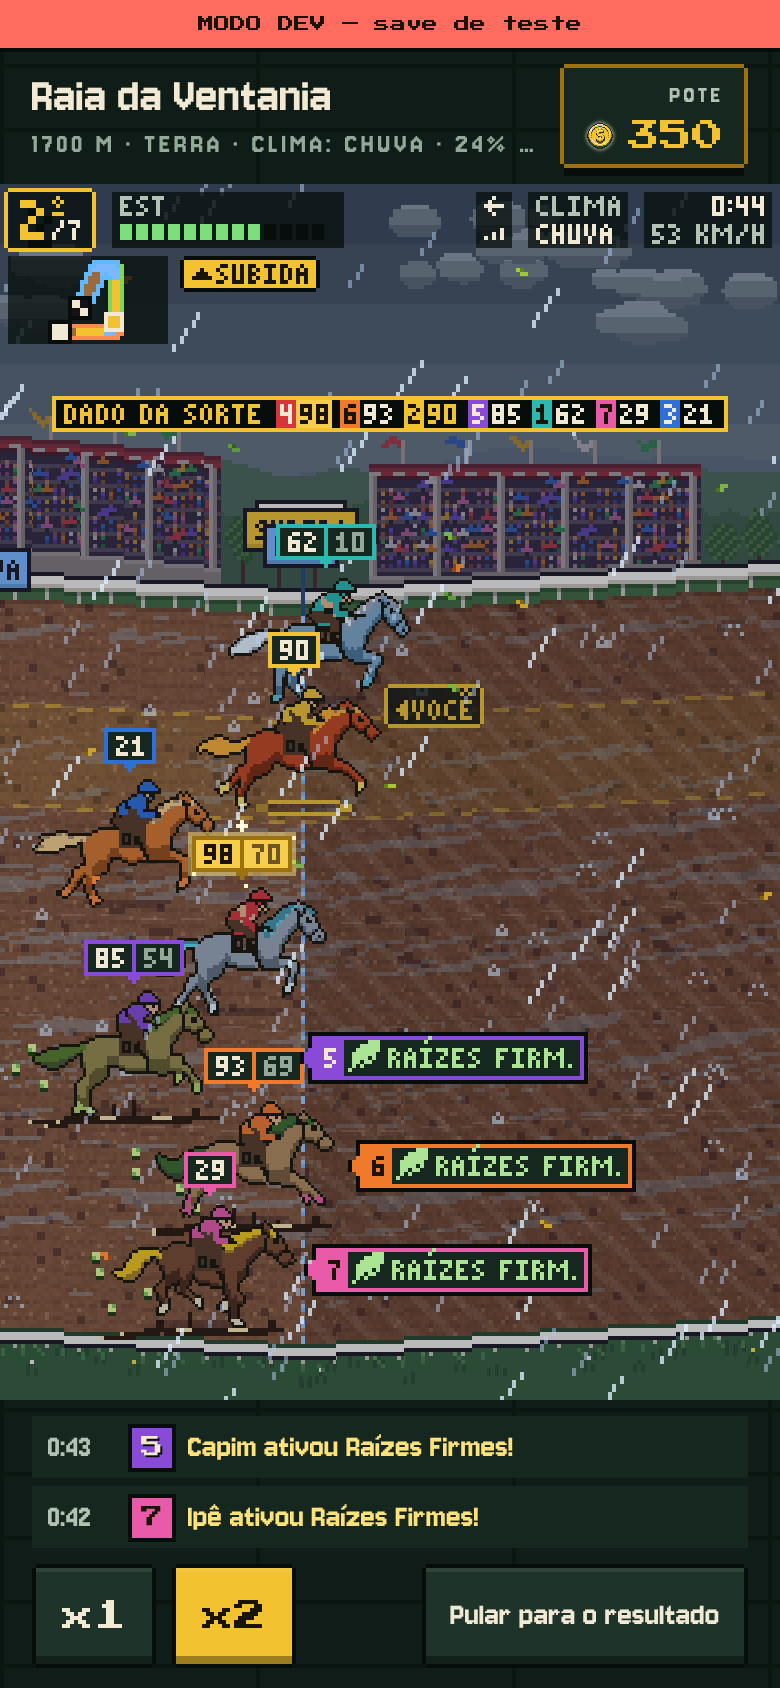
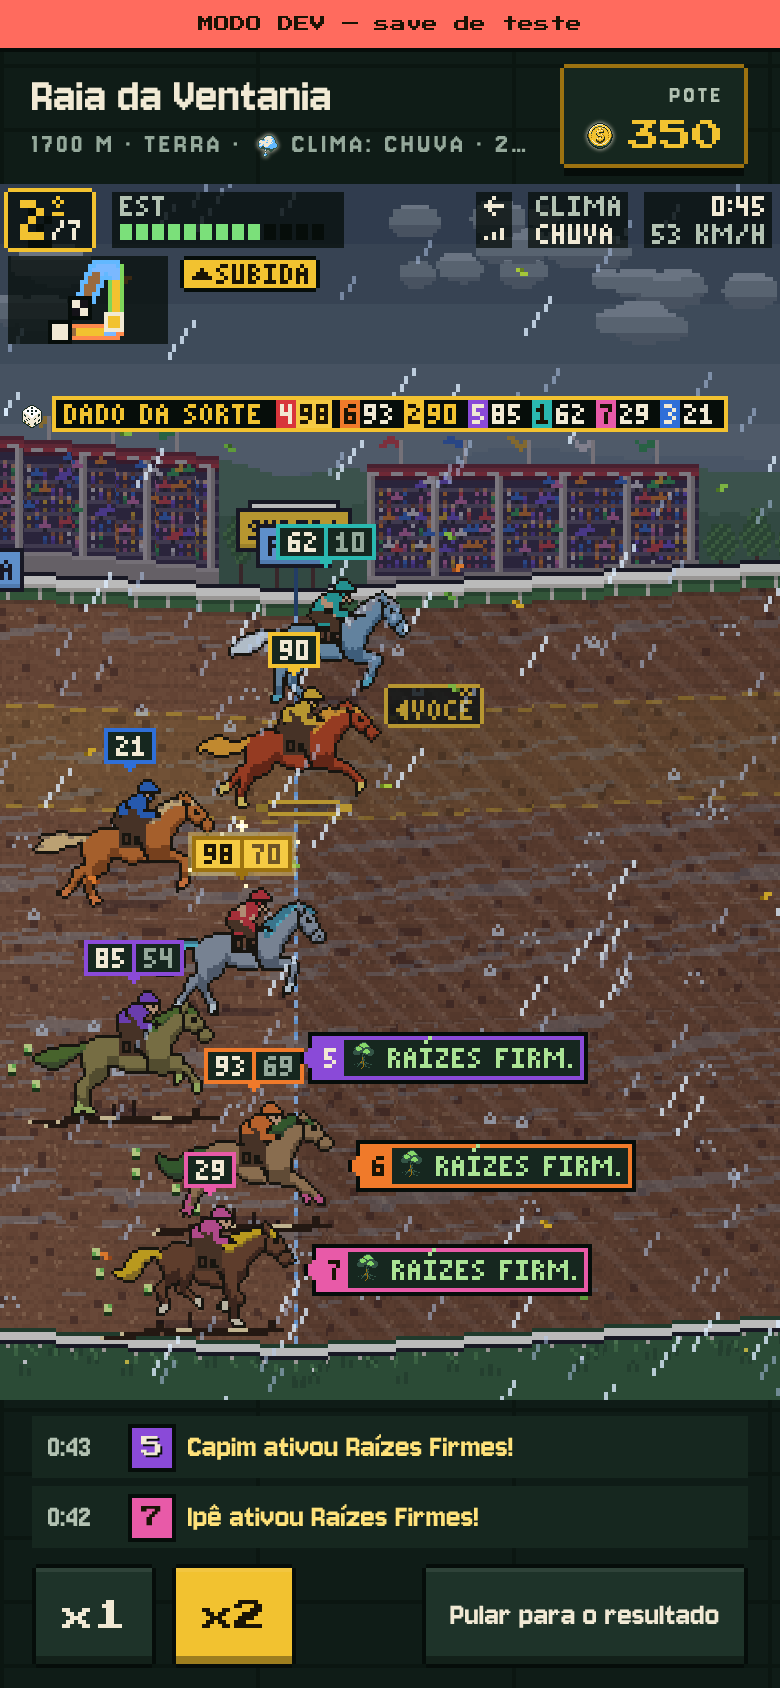
atualiza capturas, registro de assets e memória dos ícones novos
Claude-Session: https://claude.ai/code/session_01MGExzKELAJ58uyj4wakVgJ

diff --git a/docs/memoria/assets.md b/docs/memoria/assets.md
@@ -12,6 +12,7 @@ e `prototype/assets/icons/raw/`. Com elas, `--reprocessar` refaz os arquivos fin
 |---|---|---|---|---|---|
 | Moldes de cavalo (2026-11-08 e 09) | `prototype/assets/pixellab/molde-{chamas,ondas,folhas,lisa}-{retrato,parado,galope-0..8}.png` e `molde-*.json` | PixelLab API v2: `create-image-pixflux` (retrato, parado, pose de corrida) e `animate-with-text-v3` (galope de 9 quadros) | 64×64, vista lateral, cores de papel pedidas por texto e classificadas no script (matiz e Otsu); o galope de ondas, folhas e lisa foi guiado pelo 1º quadro do galope de chamas (`init_image_strength` 300) | chamas 1101, 1111 · ondas 1201, 1511 · folhas 1301, 1601 · lisa 1411, 1421, 1721 | Sim |
 | Ícones (2026-11-08 e 09) | `prototype/assets/icons/*.png` (16: 5 abas, 5 slots, Ouro, Pedra Negra, 3 tipos e `el-geral`, o das skills gerais: era `el-neutro`, renomeado em 2026-11-11 com o cru em `raw/` e o nome de saída no script, sem gerar de novo) | PixelLab `create-image-pixflux` | 32×32, "<objeto> icon, pixel art game ui icon, centered, simple, readable at small size", contorno preto, paleta do jogo em `color_image` | 2101 a 2116; trocados: expedição 2153, estribos 2128 | Sim |
+| Ícones 2 (2026-11-12) | `prototype/assets/icons/*.png` (58 novos: 7 no lugar de emojis, 7 status, 18 skills, 7 clima e piso, 14 ligas/raridades/pódio, 5 reservados; crus em `raw/`; uma linha por ícone mais abaixo) | PixelLab API v2 `create-image-pixflux` | 32×32, receita dos 16 anteriores (descrição em inglês + sufixo de ícone, contorno preto, paleta do jogo e cor do tema em `color_image`); 18 refeitos com a descrição reescrita (cor por extenso); catálogo em `prototype/tools/icones-catalogo.mjs`; folha aprovada pelo Vinicius em 2026-11-12 | 2201 a 2258; refeitos: base + 100 (18), base + 200 (`ui-macho`, `sk-arranque`), `ui-macho` 2423 | Sim (reservados sem tela por enquanto: `item-redea`, `moeda-gema`, `ins-fogo`, `ins-agua`, `ins-grama`) |
 | Logotipo (2026-11-08) | `prototype/assets/marca/logo.png` (320×63, 64 cores) | Canva `create-design` (design DAHaWgeoGqw) | logotipo pixel art "Galope Elemental"; fundo removido por chave de cor e redimensionado | — | Sim |
 | Capa (2026-11-08) | `docs/capa.png` (1024×500) | Canva `create-design` (design DAHaWnkxNO4) | capa noturna com 3 cavalos de Fogo, Água e Grama; título corrigido à mão (a IA escreveu "Calope") | — | README e futura página da loja |
 | Pista, clima, efeitos e interface | `prototype/src/sprites.js`, `prototype/src/fx.js`, `prototype/src/game.css` | código, feito à mão | — | — | Sim |
@@ -78,6 +79,10 @@ e `prototype/assets/icons/raw/`. Com elas, `--reprocessar` refaz os arquivos fin
 - **PixelLab:** 69 gerações da cota do plano entre 2026-11-08 e 09 (saldo 1994 → 1925), US$ 0 avulso.
   O número inclui o experimento de paleta, tentativas rejeitadas e a rodada de crinas próprias por
   estilo, que não passou nos critérios (os galopes guiados pelo de chamas ficaram).
+- **PixelLab, lote `icones2` (2026-11-12):** 79 gerações da cota do plano (saldo 1925 → 1846), US$ 0 avulso.
+  Foram 85 chamadas: 6 deram HTTP 502 e não foram cobradas. Rodadas: inicial 58; 1ª refação 18 (descrição
+  reescrita, seed base + 100); 2ª refação de `ui-macho` e `sk-arranque` 2 (base + 200); mais 1 seed do `ui-macho`.
+  Nenhum item ficou sem ícone.
 - **Canva:** plano pago, sem custo avulso.
 - Em 2026-11-05 foram 6 gerações para sprites prontos dos 3 iniciais; o jogo passou a usar os moldes
   e esses arquivos saíram do repositório em 2026-11-10 (estão no histórico do git).

diff --git a/docs/superpowers/specs/2026-11-12-icones-design.md b/docs/superpowers/specs/2026-11-12-icones-design.md
@@ -23,7 +23,8 @@ fonte); qualquer regra do jogo. Só a aparência muda: a corrida dá o mesmo res
 
 Descrição = o pedido ao PixelLab (em inglês, como os 16 de hoje), sempre um objeto simples e sem letras
 nem números. Cor = a cor do tema que se soma à paleta da interface (seção 3). Seeds a partir de 2201, na
-ordem da tabela.
+ordem da tabela. As tabelas trazem o pedido original; as descrições refeitas estão em
+`prototype/tools/icones-catalogo.mjs`, com a anterior em comentário.
 
 ### 2.1 No lugar dos emojis e símbolos (7)
 
@@ -34,7 +35,7 @@ ordem da tabela.
 | `ui-macho` | male symbol: a circle with an arrow pointing to the upper right | `#62b8ff` | ♂ | fichas, Haras |
 | `ui-femea` | female symbol: a circle with a small cross below it | `#ff8ad8` | ♀ | fichas, Haras |
 | `ui-estrela` | five-pointed star, filled solid gold | — | ★ | grau do cavalo (estrelas) em todo lugar |
-| `ui-estrela-vazia` | five-pointed star outline only, hollow dark center | `#5a6b63` | ☆ | idem |
+| `ui-estrela-vazia` | five-pointed star outline only, hollow dark center | `#a9b5ae` | ☆ | idem |
 | `ui-corcel` | small pennant flag on a short pole with a horseshoe emblem | — | ⚑ | selo de Corcel (herança garantida) |
 
 ### 2.2 Status (7)

diff --git a/docs/memoria/decisoes.md b/docs/memoria/decisoes.md
@@ -11,6 +11,8 @@ Conversa com o Vinicius. Spec da parte 1 em `docs/superpowers/specs/2026-11-12-i
 - **Cavalos novos para variedade entre cavalos, raridade visível e animações novas** — escolha do Vinicius; os retratos maiores ficaram de fora.
 - **58 ícones com a mesma receita dos 16 de hoje; folha aprovada pelo Vinicius antes de entrar nas telas; teto de 100 gerações da cota** — a receita já foi testada e combina com o que existe.
 - **Cada ginásio tem o foco num elemento (Fogo, Água, Grama); as insígnias seguem esse foco** — dito pelo Vinicius; vale para o desenho dos ginásios.
+- **Refação dos ícones começa pela descrição (cor por extenso), não pela seed** — o PixelLab ignorava a cor do tema.
+- **Estrela vazia em cinza-claro (#a9b5ae), não cinza-escuro** — sumia no painel.
 
 ## 2026-11-12 — crescimento livre: rodada 2 da calibração (a revisar na spec)
 O Vinicius pediu os quatro ajustes sugeridos depois da rodada 1 ("Pode incluir os quatro"). Números e

diff --git a/docs/memoria/ESTADO.md b/docs/memoria/ESTADO.md
@@ -62,8 +62,9 @@ Plano em `docs/superpowers/plans/2026-11-11-cavalos-v3-bloco-1.md`, oito tarefas
 - **Ginásios:** ideia registrada (`docs/GDD.md` §8.6); desenho depois do bloco 1b. Cada ginásio tem o
   foco num elemento.
 - **Visuais 2** (branch `claude/visuais-2`, criada da `claude/cavalos-v3`): três partes, ícones →
-  cavalos → interface. Spec dos ícones (58 novos) em `docs/superpowers/specs/2026-11-12-icones-design.md`,
-  **aguardando a revisão do Vinicius**. Geração só com confirmação explícita (teto de 100 gerações).
+  cavalos → interface. **Parte 1 (ícones) pronta na `claude/visuais-2`:** 58 ícones nas telas, na corrida e
+  no wiki; 79 gerações (spec em `docs/superpowers/specs/2026-11-12-icones-design.md`). **Próxima parte: os
+  cavalos** (spec a desenhar). Geração só com confirmação explícita.
 
 ## O que falta
 - **Decidido em 2026-11-10:** o teste fechado do Play sai com o jogo offline; o lançamento público
